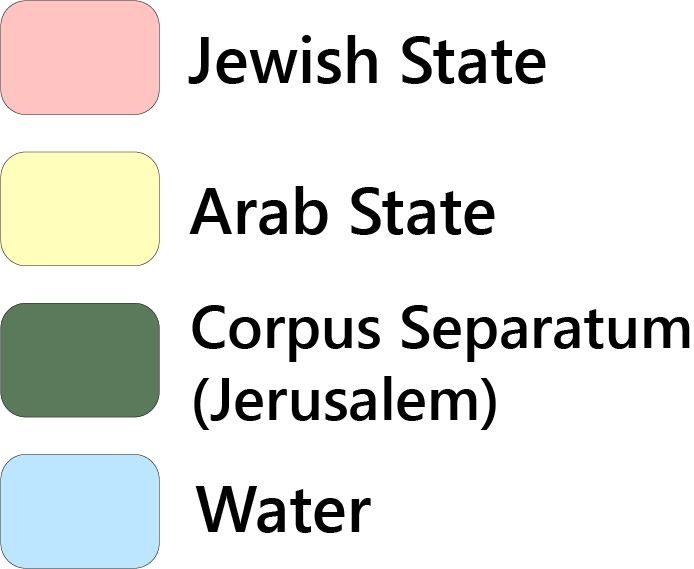
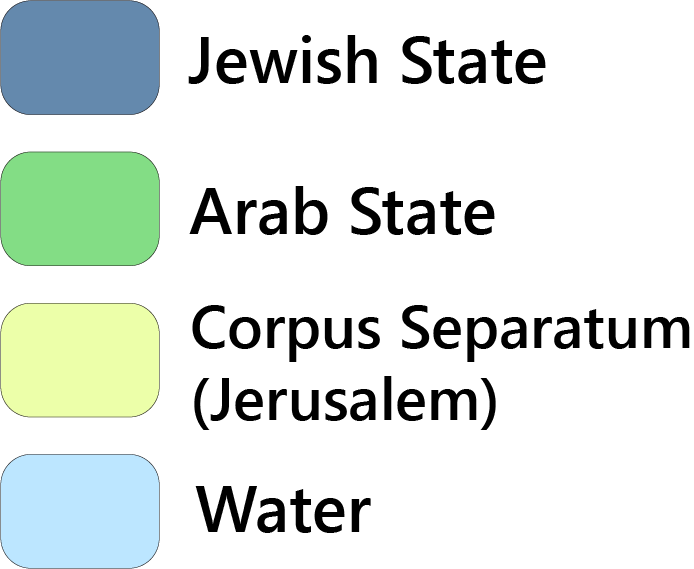
Style changes, base for present map
Started adding functions to add data

diff --git a/js/main copy.js b/js/main copy.js
@@ -45,6 +45,7 @@
          d3.json("data/Countries2.topojson"),
          d3.json("data/Armistice.topojson"),
          d3.json("data/WestBankSettlements.geojson"),
+         d3.json ("data/PalestinianCommunities.geojson"),
         
         
      ];
@@ -57,7 +58,9 @@
      var csvData = data[0],
          countries = data[1],
          boundaries = data[2],
-         settlements = data[3];
+         settlements = data[3], //West Bank settlements; scale by population
+         communities = data [4]; //Palestinian communities data; scale by population, recolor by dependence on Israel? - might get cluttered
+
  
      //translate TopoJSON
      var countryBound = topojson.feature(countries, countries.objects.Countries2).features,
@@ -71,32 +74,12 @@
          setEnumerationUnits(armBound,map,path, countryBound);
  
          createDropdown(csvData);
+
+         addSettlements(settlements, map, path)
  
          };
  
      };
- 
-     function setGraticule(map, path){
-         //create graticule generator
-         var graticule = d3.geoGraticule()
-         .step([2, 2]); //place graticule lines every 5 degrees of longitude and latitude
-         
-          //create graticule background
-          var gratBackground = map.append("path")
-          .datum(graticule.outline()) //bind graticule background
-          .attr("class", "gratBackground") //assign class for styling
-          .attr("d", path) //project graticule
-         
-           
-            
-         //create graticule lines
-         var gratLines = map.selectAll(".gratLines") //select graticule elements that will be created
-           .data(graticule.lines()) //bind graticule lines to each element to be created
-           .enter() //create an element for each datum
-           .append("path") //append each element to the svg as a path element
-           .attr("class", "gratLines") //assign class for styling
-           .attr("d", path); //project graticule lines
-         };
          
          function joinData(armBound, csvData){
               //variables for data join
@@ -197,7 +180,18 @@
             
          };
   
-         
+         //function to add Israel West Bank Settlements
+         function addSettlements(settlements, map, path){
+
+
+         };
+
+
+         //function to calculate proportional symbols
+         function createPropSymbols(settlements){
+
+         };
+
          
          //function to create a dropdown menu for attribute selection
            
@@ -232,7 +226,7 @@
                      });
              };
          
-         function changeAttribute(attribute, csvData) {
+         function changeAttribute(attribute, csvData, settlements) {
              //change the expressed attribute
              expressed = attribute;
 
@@ -244,11 +238,11 @@
                 .style("fill", function (d) {
                     var value = d.properties.PlanUse;
                     if (value === "Arab_State") {
-                        return "rgb(255, 255, 187)";
+                        return "rgb(131,221,133)";
                     } else if (value === "Jewish_State"){
-                        return "rgb(255, 195, 193)";
+                        return "rgb(100,137,173)";
                     } else if (value === "Water") {return "rgb(188, 230, 255)";}
-                    else if (value === "Corpus Separatum") {return "rgb(91, 122, 92)"}
+                    else if (value === "Corpus Separatum") {return "rgb(236,255,169)"}
                 })
                 setInfoLayer(layer1);
             }
@@ -260,11 +254,11 @@
                 .style("fill", function (d) {
                     var value = d.properties.Armistice;
                     if (value === "Egypt and Jordan") {
-                        return "rgb(255, 255, 187)";
+                        return "rgb(131,221,133)";
                     } else if (value === "Israel"){
-                        return "rgb(255, 195, 193)";
+                        return "rgb(100,137,173)";
                     } else if (value === "Water") {return "rgb(188, 230, 255)";}
-                    else if (value === "Corpus Separatum") {return "rgb(91, 122, 92)"}
+                    else if (value === "Corpus Separatum") {return "rgb(236,255,169)"}
                 });
                 setInfoLayer(layer2);
             }
@@ -272,10 +266,13 @@
                 //recolor
                 var armisticelayer = d3.selectAll(".boundaries")
                 .transition()
-                .duration()
+                .duration(1000)
                 .style("fill", function (d) { 
                     var value = d.properties.Armistice;
-                    if (value) {
+                    if (value === "Water"){
+                        return "rgb(188, 230, 255)";
+                    }
+                    else if (value) {
                         return "#FFEBCD";
                     }
                     else {
@@ -384,6 +381,20 @@
                 var labelAttribute = "<b>" + expressed +
                 ": </b> <p> Assigned to " + props.Armistice ; 
                 }
+             }
+
+             else if (expressed === "Present Day") {
+                if (props.Armistice === "Water"){
+                    if (props.NAME === "Bound11") {
+                        var labelAttribute = "<h1> Sea of Galilee </h1>";
+                    }
+                    if (props.NAME === "Bound3") {
+                        var labelAttribute = "<h1> Dead Sea </h1>";
+                    }
+                }
+                else if (props.NAME_EN) {
+                    var labelAttribute = "<h1>" + props.NAME_EN + "</h1>";
+                 }
              }
 
              //create info label div

diff --git a/index.html b/index.html
@@ -29,14 +29,14 @@
         #infoText {
             position: absolute;
             top: 150px;
-            left: 600px;
+            left: 750px;
             color: beige;
             flex: 1 1 auto;
             display: flex; 
             /* flex-wrap: wrap; */
             font-size: 2vw;
             font-family: 'Gill Sans', 'Gill Sans MT', Calibri, 'Trebuchet MS', sans-serif ;
-            width: 45%;
+            width: 35%;
         }
 
         </style>
